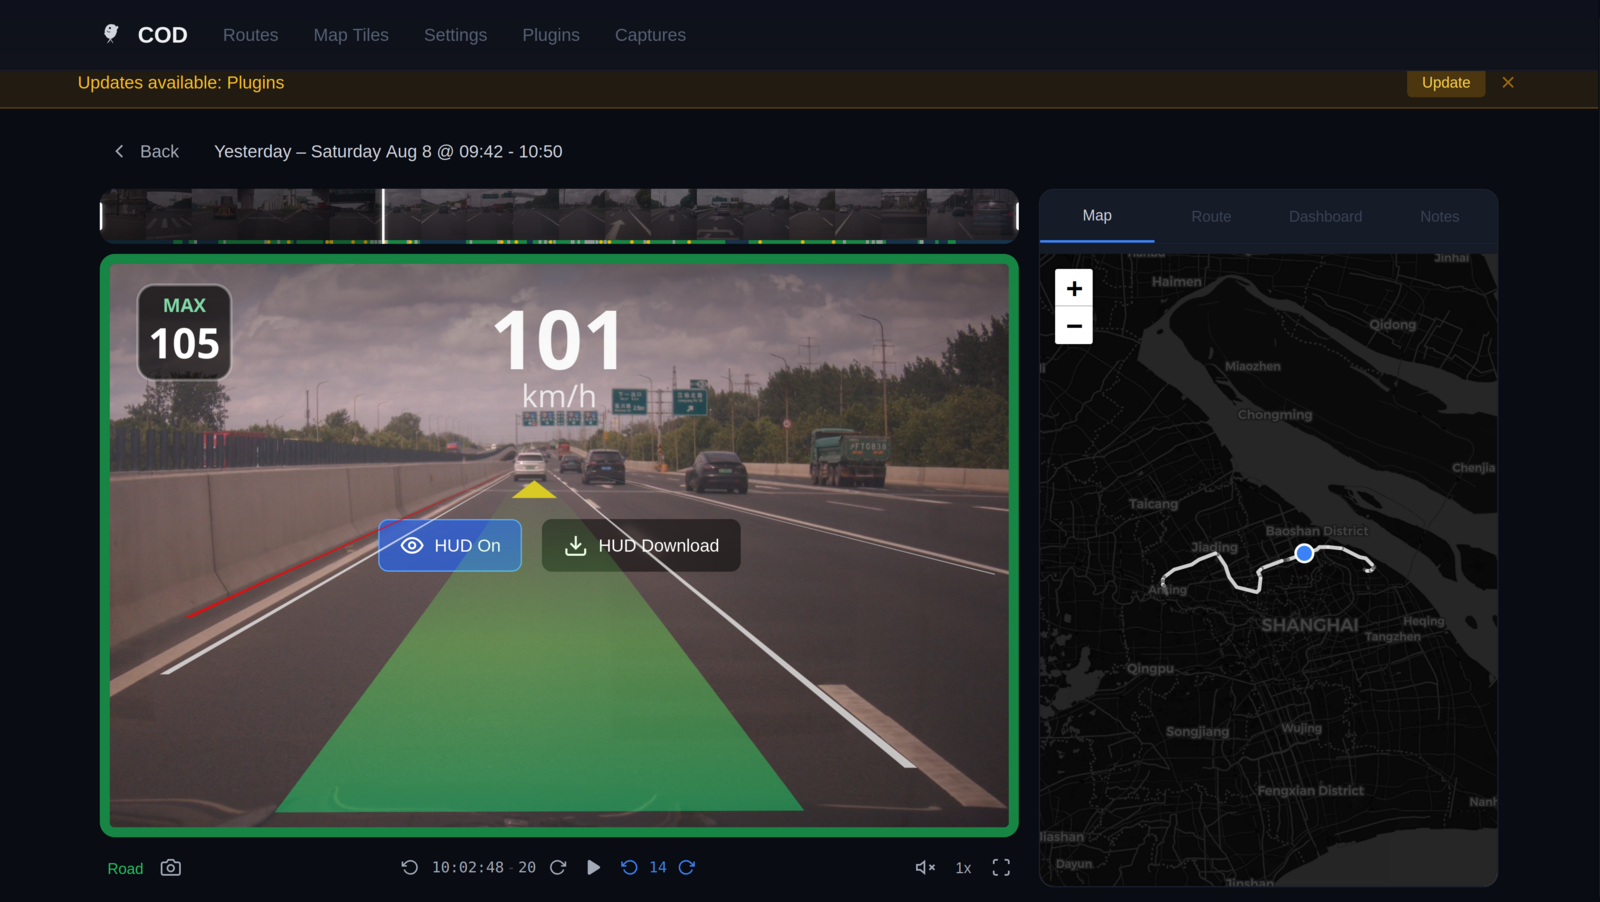
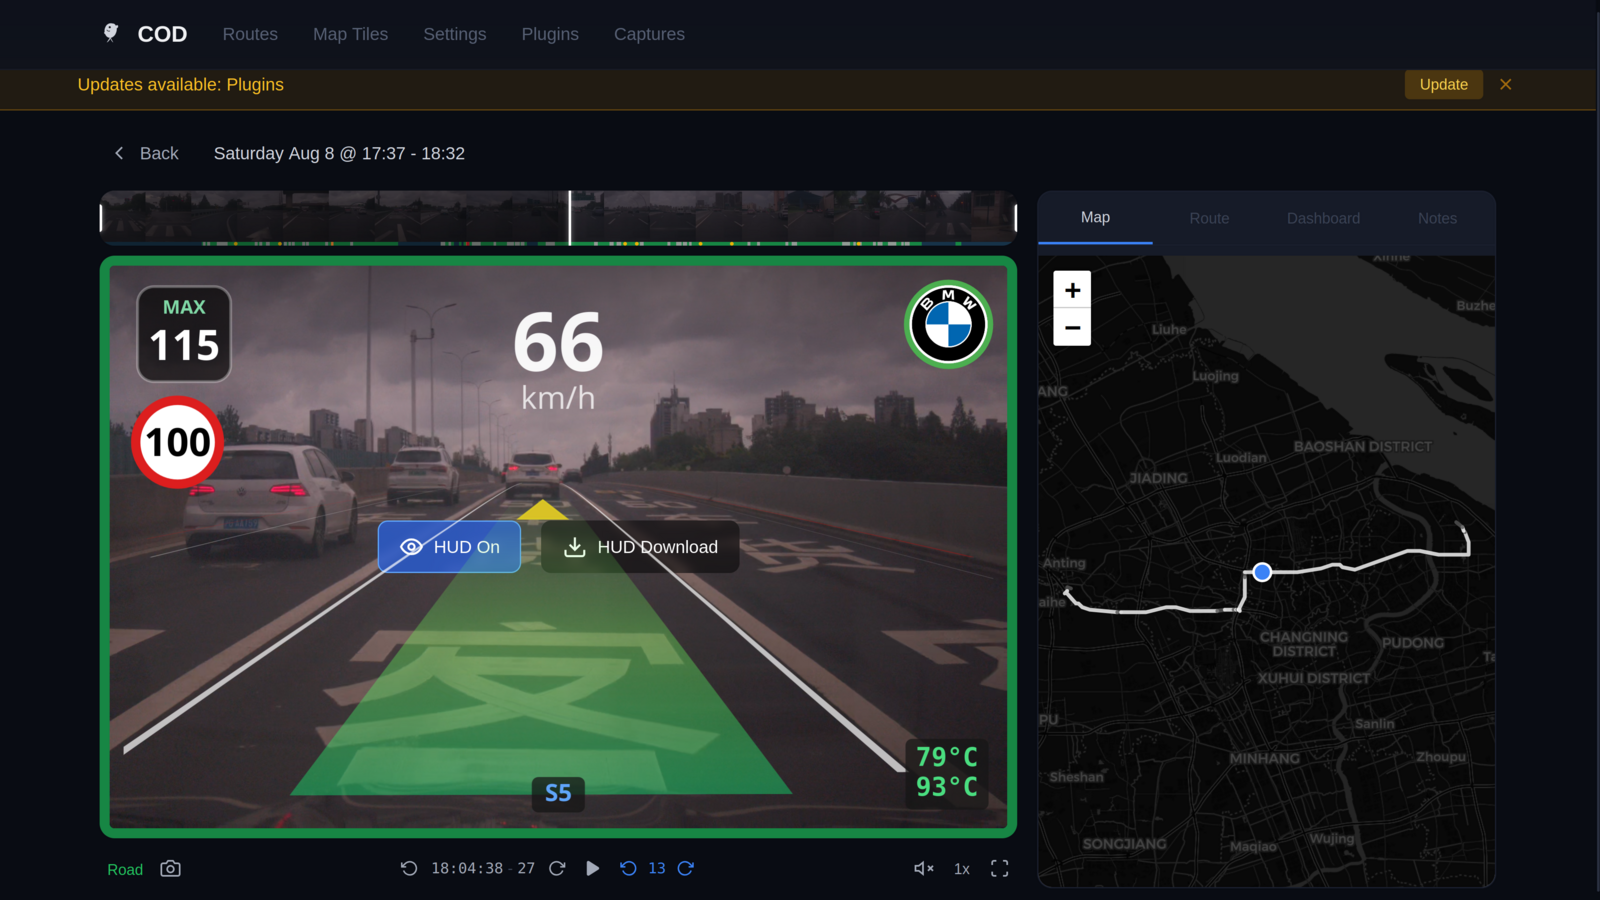
docs: HUD On screenshot shows plugin overlay elements

diff --git a/README.md b/README.md
@@ -7,7 +7,7 @@ A self-hosted web companion for [openpilot](https://github.com/commaai/openpilot
 COD also enables data collection workflows not possible with connect.comma.ai — scrub through video frame-by-frame, export high-resolution images with EXIF metadata, and annotate events with notes. We use this to collect speed limit sign training data for YOLO and verify OSM map contributions. Or simply bookmark moments worth remembering — wildlife sightings, scenic views, or road incidents.
 
 ![Route player with live HUD overlay](docs/cod_hud_on.png)
-*Route player with **HUD On** — the openpilot HUD overlaid live on dashcam footage, with route map and event timeline.*
+*Route player with **HUD On** — the openpilot HUD overlaid live on dashcam footage, including plugin elements (speed-limit sign, road info, temperatures, brand emblem), with route map and event timeline.*
 
 ![HUD video rendering](docs/cod_hud_download.png)
 ***HUD Download** renders the overlay into a shareable MP4 on-device, frame-exact with full plugin overlay fidelity.*
